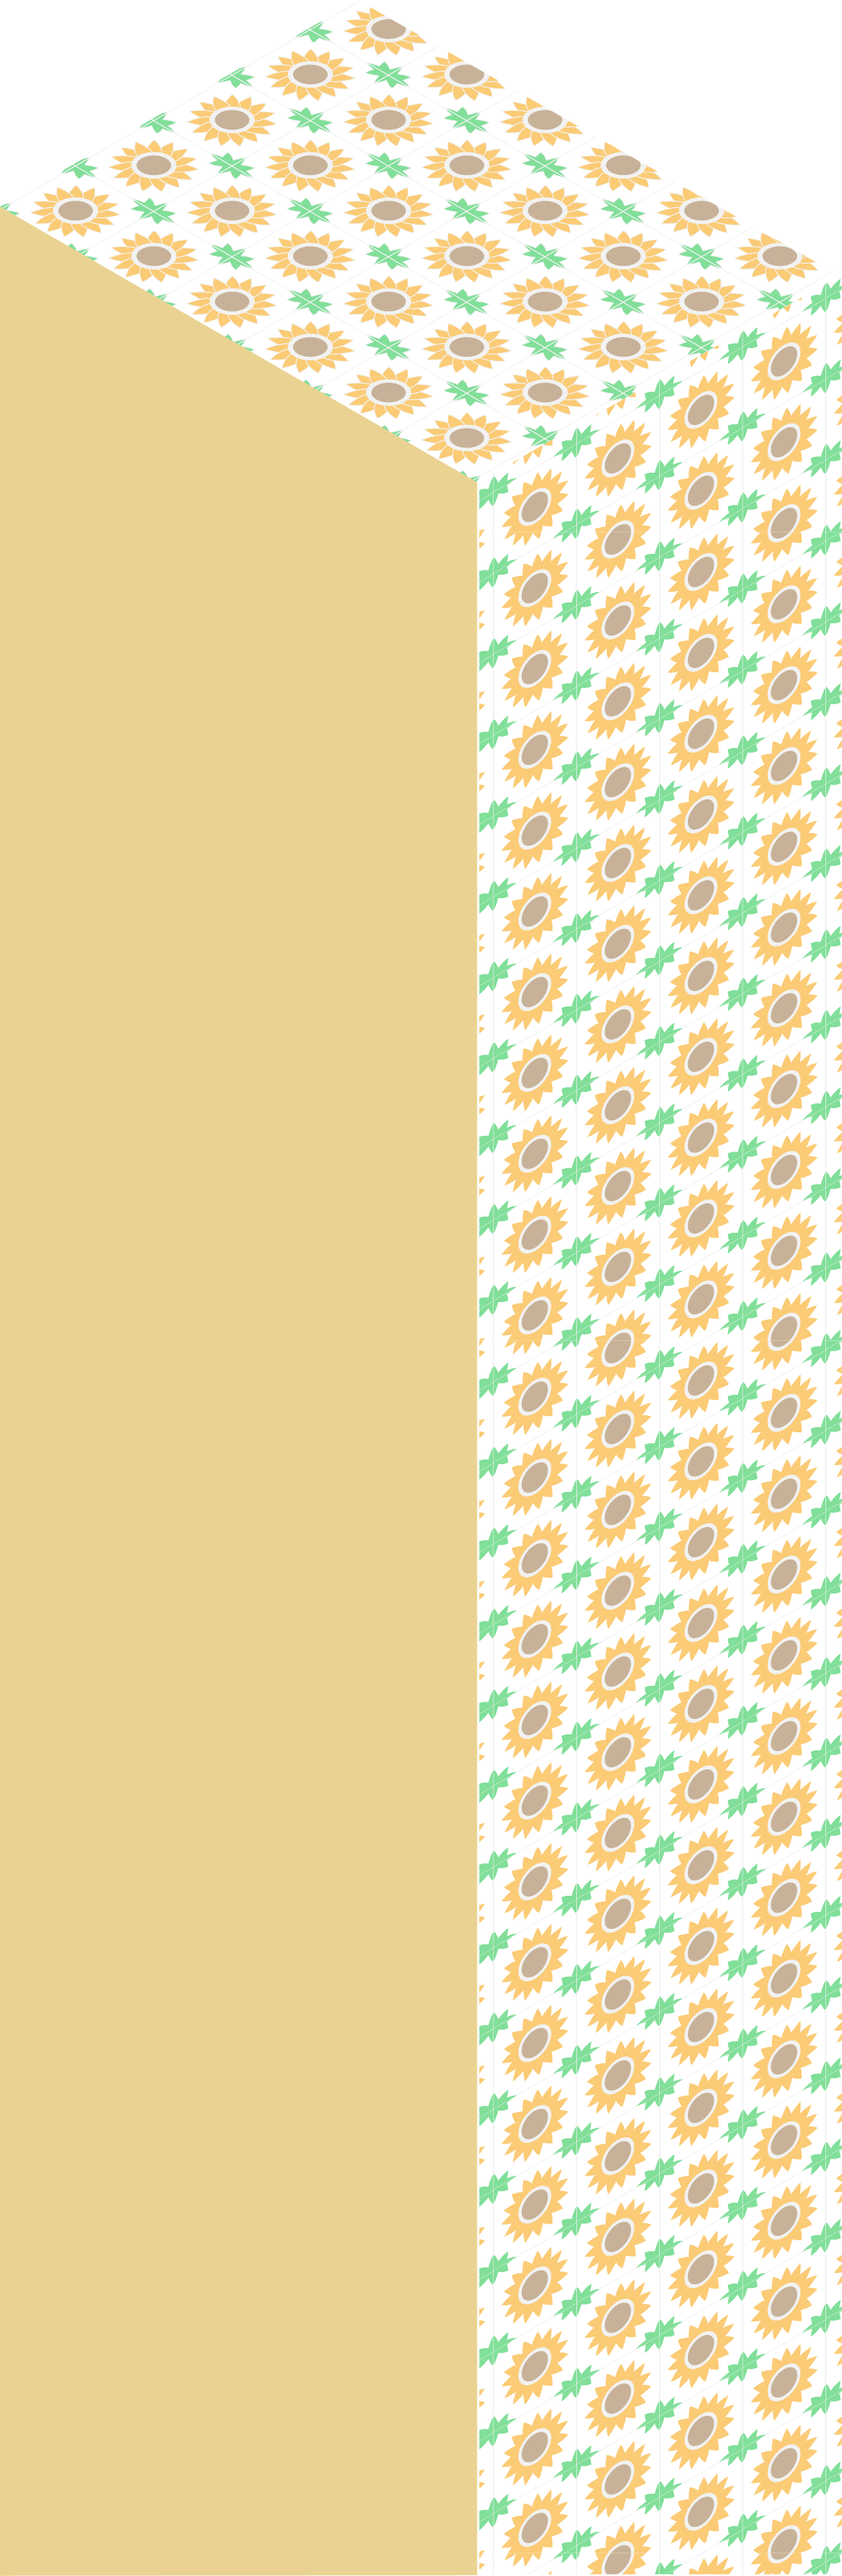
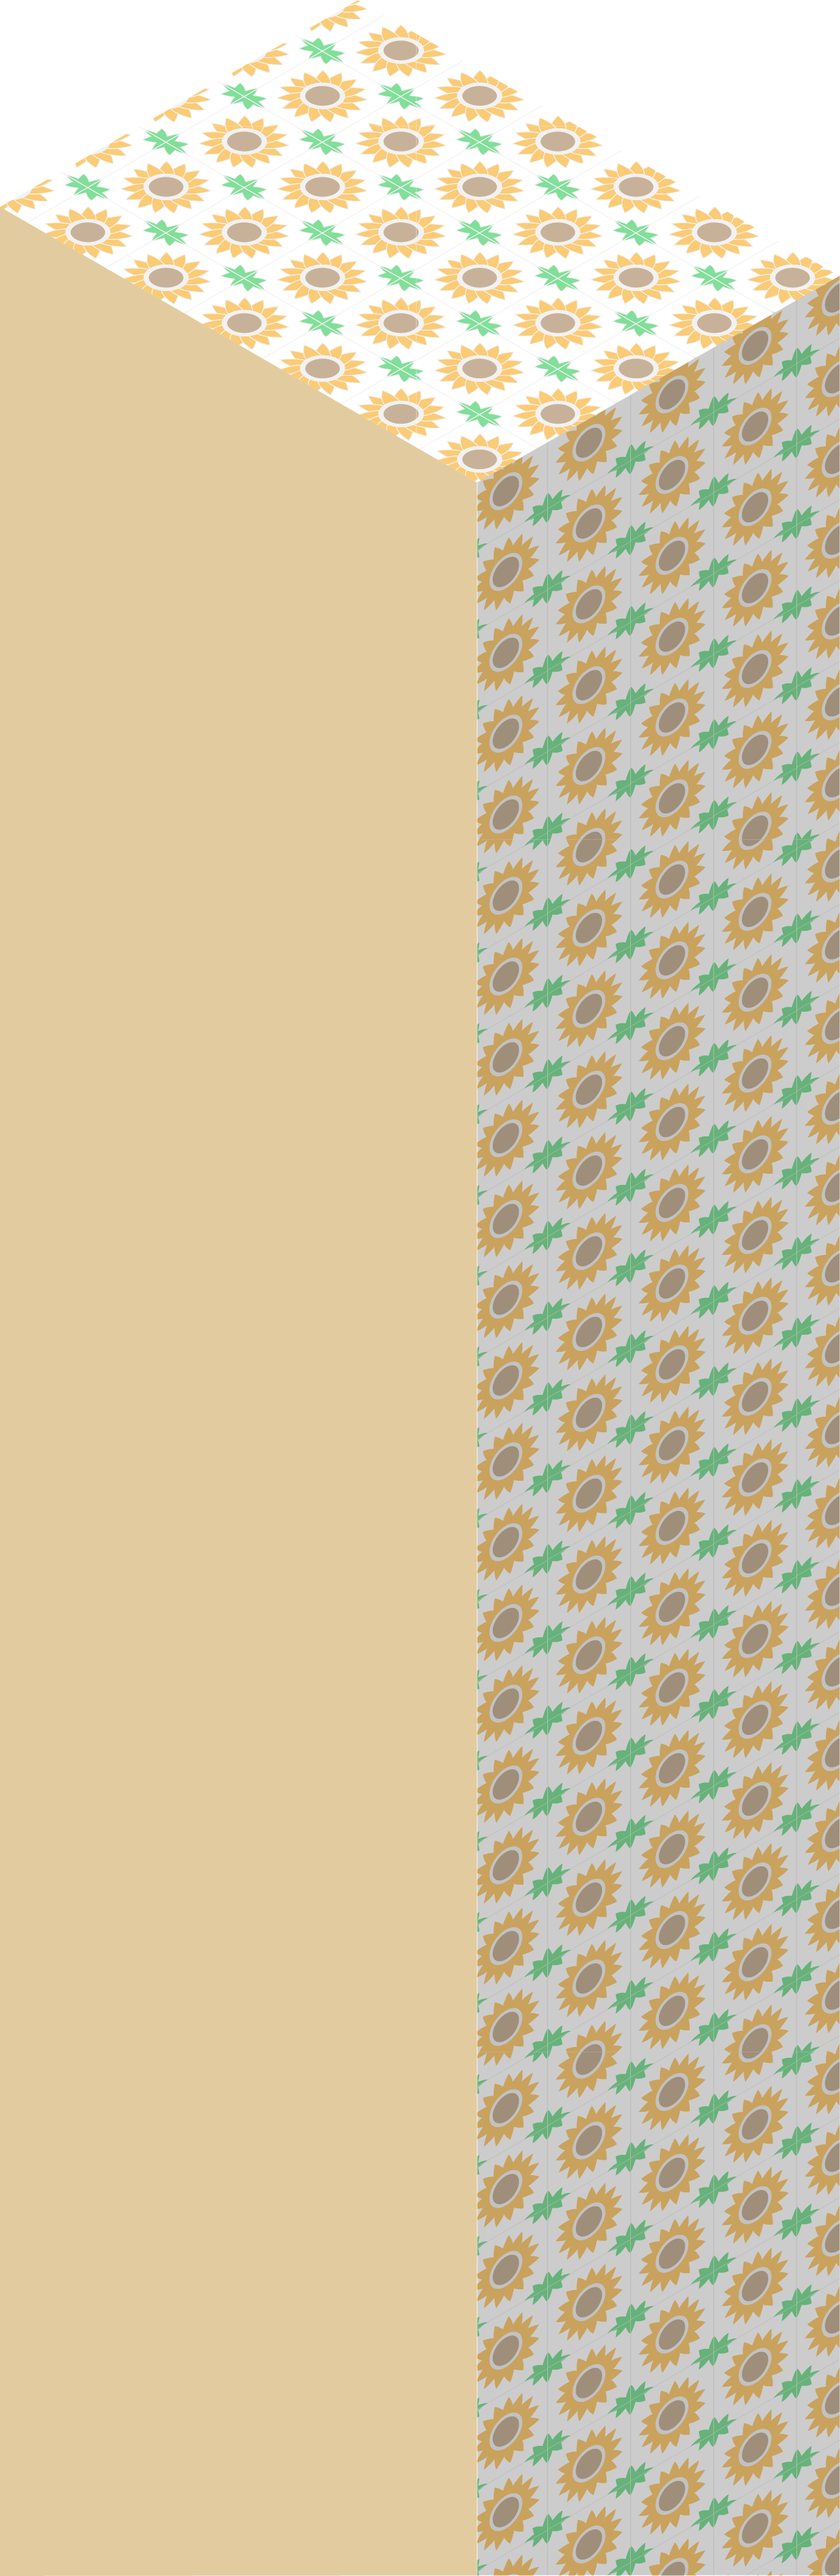
Add files via upload
變更柱子的花紋與顏色
變更背景(暫定)

diff --git a/docs/css/main.css b/docs/css/main.css
@@ -3,10 +3,8 @@ html, body {
 }
 
 body {
-    background: rgb(255, 216, 210);
-    background: linear-gradient(180deg, rgba(255, 216, 210, 1) 2%, rgba(255, 230, 191, 1) 35%, rgba(247, 226, 255, 1) 66%, rgba(226, 255, 252, 1) 98%);
+    background-image: linear-gradient(-20deg, #e9defa 0%, #fbfcdb 100%);
 }
-
 
 .container {
     max-width: 1600px;
@@ -15,10 +13,6 @@ body {
     position: relative;
     overflow-y: hidden;
 }
-
-
-
-
 
 .row {
     position: relative;
@@ -87,7 +81,7 @@ img {
     left: 0%;
 }
 
-.brick{
+.brick {
     z-index: 35;
     max-width: 21%;
     top: 25%;
@@ -95,7 +89,7 @@ img {
     display: none;
 }
 
-.skill_board_s{
+.skill_board_s {
     z-index: 45;
     max-width: 25%;
     top: 33.5%;
@@ -116,7 +110,7 @@ img {
     left: 32%;
 }
 
-.childern_book{
+.childern_book {
     z-index: 43;
     max-width: 21%;
     top: 34.5%;
@@ -124,7 +118,7 @@ img {
     display: none;
 }
 
-.skill_board_i{
+.skill_board_i {
     z-index: 45;
     max-width: 25%;
     top: 42.5%;
@@ -145,7 +139,7 @@ img {
     left: 76%;
 }
 
-.sketchpad{
+.sketchpad {
     z-index: 35;
     max-width: 21%;
     top: 27%;
@@ -153,75 +147,77 @@ img {
     display: none;
 }
 
-.skill_board_b{
+.skill_board_b {
     z-index: 38;
     max-width: 25%;
     top: 36.5%;
     left: 68%;
 }
 
-.collect_board{
+.collect_board {
     z-index: 38;
     max-width: 90%;
     top: 48.5%;
     left: 7%;
 }
 
-.thd-p{
+.thd-p {
     z-index: 60;
     max-width: 90%;
     top: 63%;
     left: 0%;
 }
-.toy_box{
+
+.toy_box {
     z-index: 60;
     max-width: 55%;
     top: 61%;
     left: 20%;
 }
 
-.contact_title{
+.contact_title {
     z-index: 60;
     max-width: 63%;
     top: 71.5%;
     left: -10%;
 }
-.four_p1{
+
+.four_p1 {
     z-index: 60;
     max-width: 45%;
     top: 86%;
-    left: -5%;
+    left: -3%;
 }
 
-.four_p2{
+.four_p2 {
     z-index: 60;
     max-width: 45%;
     top: 90%;
     left: 48%;
 }
 
-.phone{
+.phone {
     z-index: 60;
     max-width: 30%;
     top: 84.5%;
-    left: 5%;
+    left: 6%;
 }
 
-.mailbox{
+.mailbox {
     z-index: 60;
     max-width: 29%;
     top: 82.2%;
     left: 56%;
 }
 
-.contact_board1{
+.contact_board1 {
     z-index: 70;
     max-width: 25%;
     top: 89.5%;
-    left: -6%;
+    left: -4%;
 }
 
-.contact_board2{
+.contact_board2 {
     z-index: 70;
     max-width: 25%;
     top: 93.5%;

diff --git a/docs/index.html b/docs/index.html
@@ -12,7 +12,7 @@
     <img src="img/main_pillar.png" alt="" class="main_p">
     <img src="img/skill_title_board.png" alt="" class="skill_title">
     <!--skill_pillar1-->
-    <img src="img/second_pillar.png" alt="" class="sec_p1">
+    <img src="img/second_pillar1.png" alt="" class="sec_p1">
     <!--pot_green_start-->
     <img src="img/pot_lid.png" alt="" class="lid1">
     <img src="img/pot_green.png" alt="" class="pot_green">
@@ -21,7 +21,7 @@
     <img src="img/skill_board.png" alt="" class="skill_board_s">
     <!--skill_pillar1_end-->
     <!--skill_pillar2-->
-    <img src="img/second_pillar.png" alt="" class="sec_p2">
+    <img src="img/second_pillar1.png" alt="" class="sec_p2">
     <!--pot_red_start-->
     <img src="img/pot_lid.png" alt="" class="lid2">
     <img src="img/pot_red.png" alt="" class="pot_red">
@@ -30,7 +30,7 @@
     <img src="img/skill_board.png" alt="" class="skill_board_i">
     <!--skill_pillar2_end-->
     <!--skill_pillar3-->
-    <img src="img/second_pillar.png" alt="" class="sec_p3">
+    <img src="img/second_pillar2.png" alt="" class="sec_p3">
     <!--pot_gray_start-->
     <img src="img/pot_lid.png" alt="" class="lid3">
     <img src="img/pot_gray.png" alt="" class="pot_gray">
